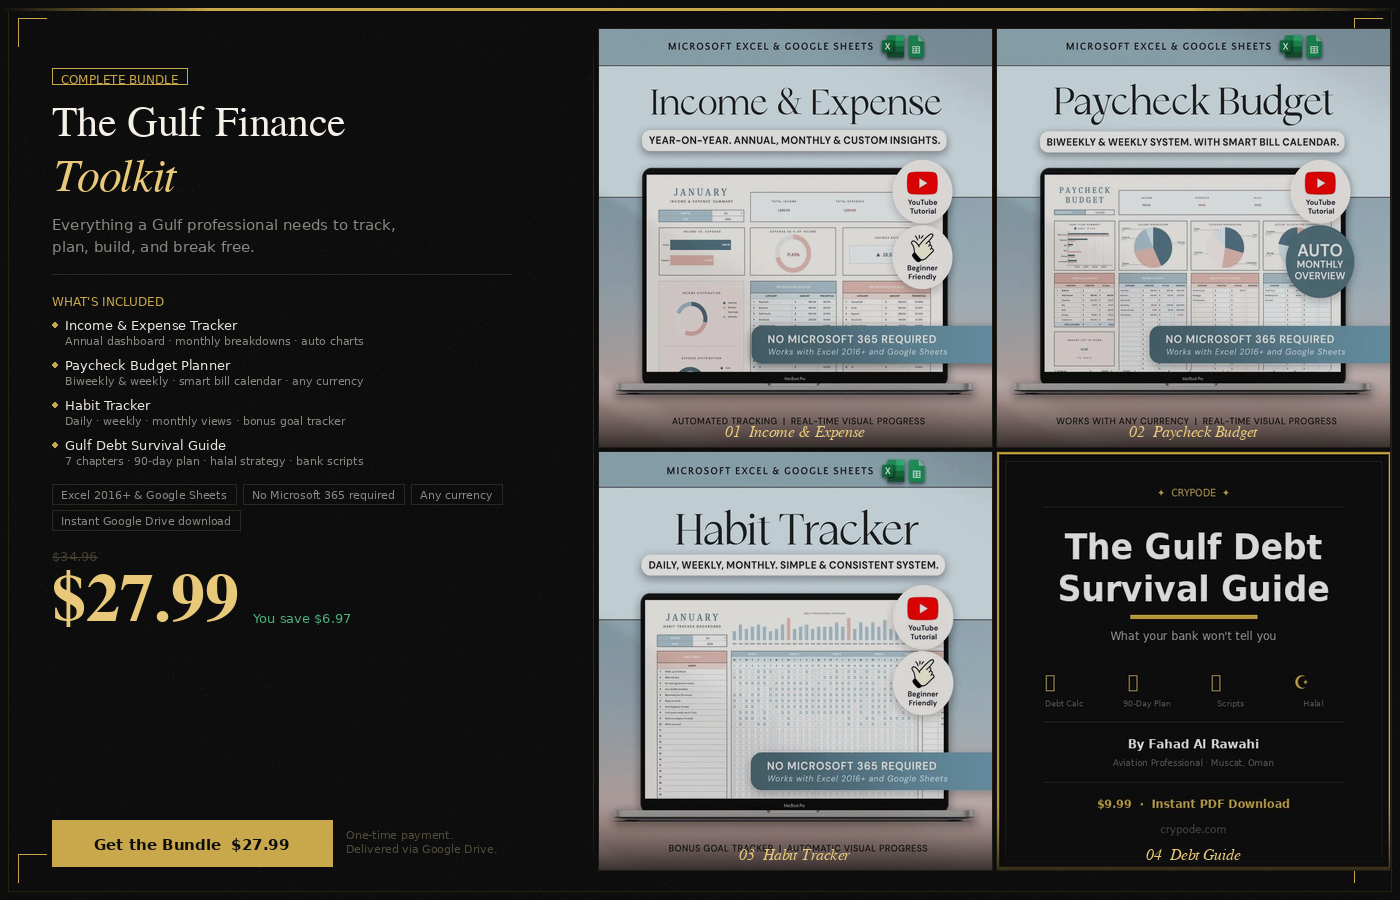
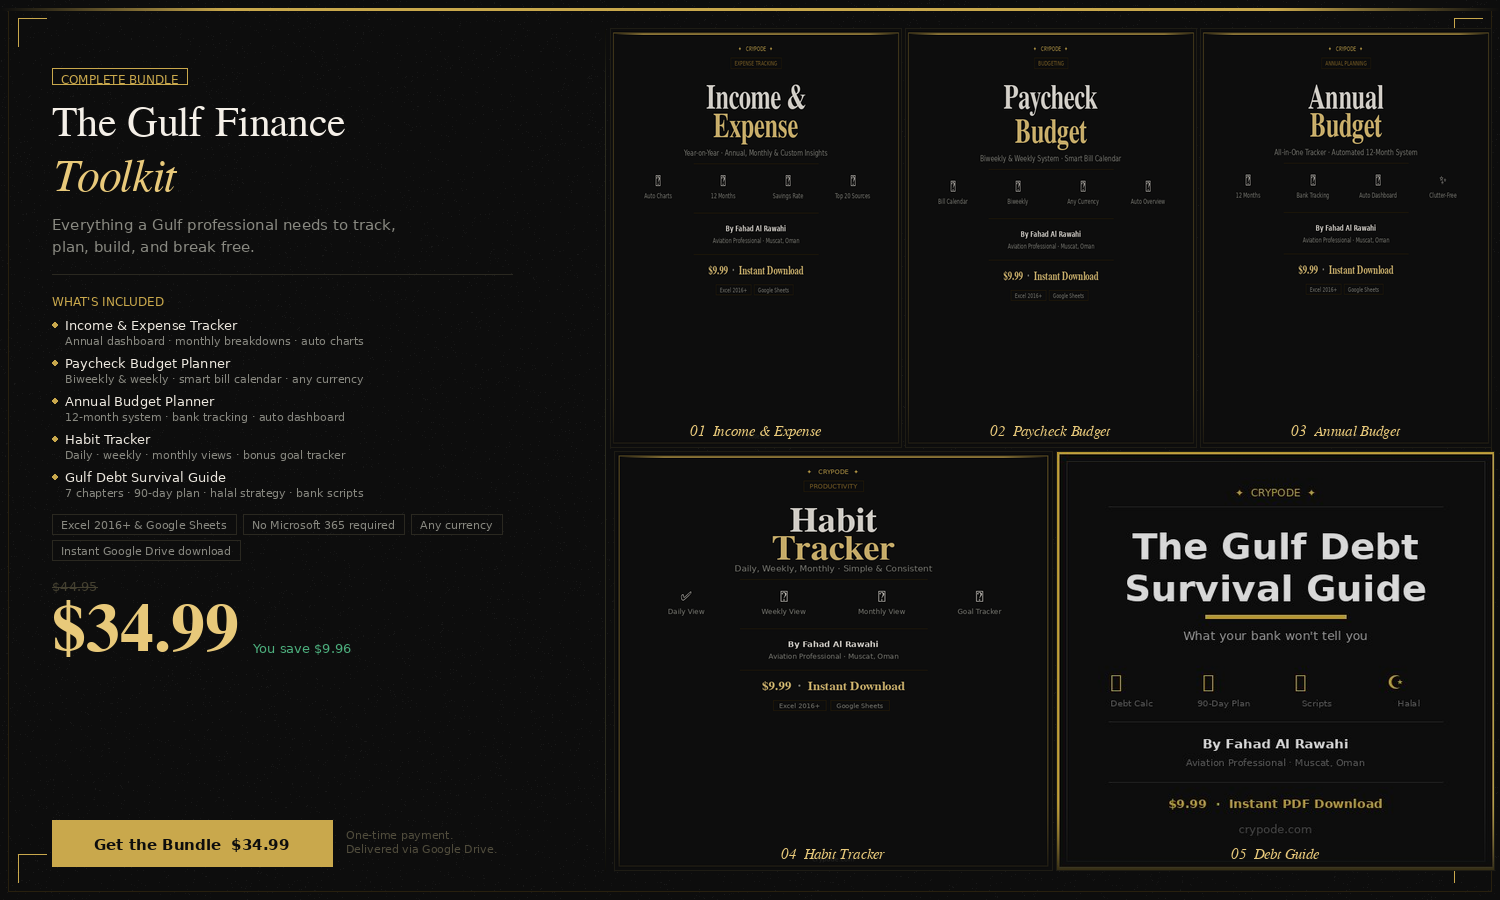
Add files via upload

diff --git a/tools.html b/tools.html
@@ -257,9 +257,9 @@
   /* PRODUCT GRID */
   .tools-grid {
     display: grid;
-    grid-template-columns: repeat(4, 1fr);
+    grid-template-columns: repeat(5, 1fr);
     gap: 2px;
-    max-width: 1300px;
+    max-width: 1500px;
     margin: 0 auto;
     padding: 0 48px 100px;
   }
@@ -277,6 +277,7 @@
   .product-card:nth-child(2) { animation-delay: 0.2s; }
   .product-card:nth-child(3) { animation-delay: 0.3s; }
   .product-card:nth-child(4) { animation-delay: 0.4s; }
+  .product-card:nth-child(5) { animation-delay: 0.5s; }
   .product-card:hover { border-color: rgba(201,168,76,0.3); transform: translateY(-4px); }
 
   .card-image {
@@ -369,6 +370,9 @@
     to   { opacity: 1; transform: translateY(0); }
   }
 
+  @media (max-width: 1400px) {
+    .tools-grid { grid-template-columns: repeat(3, 1fr); }
+  }
   @media (max-width: 1200px) {
     .tools-grid { grid-template-columns: repeat(2, 1fr); }
   }
@@ -425,11 +429,11 @@
 <div class="bundle-banner">
   <div class="bundle-inner">
     <div class="bundle-text">
-      <h3>Complete Finance Bundle — All 4 Products</h3>
-      <p>Income tracker + Paycheck budget + Habit tracker + Gulf Debt Guide. Instant download via Google Drive.</p>
+      <h3>Complete Finance Bundle — All 5 Products</h3>
+      <p>Income tracker + Paycheck budget + Annual budget + Habit tracker + Gulf Debt Guide. Instant download via Google Drive.</p>
     </div>
     <div class="bundle-right">
-      <div class="bundle-price"><s>$34.96</s> $27.99</div>
+      <div class="bundle-price"><s>$44.95</s> $34.99</div>
       <a href="https://www.paypal.com/ncp/payment/UWE4UVBSWK7TQ" target="_blank" class="btn-bundle">Get Bundle →</a>
     </div>
   </div>
@@ -500,7 +504,38 @@
     </div>
   </div>
 
-  <!-- Card 3: Habit Tracker -->
+  <!-- Card 3: Annual Budget -->
+  <div class="product-card" data-cat="budgeting">
+    <img class="card-image" src="AnnualBudget-Purple.png" alt="Annual Budget">
+    <div class="card-body">
+      <div class="card-category">Annual Planning</div>
+      <h2 class="card-title">Annual Budget Planner</h2>
+      <div class="compat-row">
+        <div class="compat-badge">
+          <svg viewBox="0 0 24 24" fill="#1D6F42"><rect x="3" y="3" width="18" height="18" rx="2"/><path d="M8 12h8M8 8h8M8 16h5" stroke="#fff" stroke-width="1.5"/></svg>
+          Excel 2016+
+        </div>
+        <div class="compat-dot"></div>
+        <div class="compat-badge">
+          <svg viewBox="0 0 24 24" fill="#0F9D58"><rect x="3" y="3" width="18" height="18" rx="2"/><path d="M8 12h8M8 8h8M8 16h5" stroke="#fff" stroke-width="1.5"/></svg>
+          Google Sheets
+        </div>
+      </div>
+      <p class="card-desc">All-in-one automated 12-month tracker with annual dashboard, bank account tracking, income &amp; expense breakdowns, and debt payment summaries. Clutter-free design.</p>
+      <div class="card-tags">
+        <span class="tag">12 Months</span>
+        <span class="tag">Bank Tracking</span>
+        <span class="tag">Auto Dashboard</span>
+        <span class="tag">Clutter-Free</span>
+      </div>
+      <div class="card-footer">
+        <div class="card-price">$9.99 <span>Instant Download</span></div>
+        <a href="https://www.paypal.com/ncp/payment/HTMQ6JVC59B4Q" target="_blank" class="btn-buy">Buy Now →</a>
+      </div>
+    </div>
+  </div>
+
+  <!-- Card 4: Habit Tracker -->
   <div class="product-card" data-cat="productivity">
     <img class="card-image" src="habit.png" alt="Habit Tracker">
     <div class="card-body">
@@ -531,7 +566,7 @@
     </div>
   </div>
 
-  <!-- Card 4: Gulf Debt Survival Guide -->
+  <!-- Card 5: Gulf Debt Survival Guide -->
   <div class="product-card" data-cat="guides">
     <img class="card-image" src="crypode_product_cover_750x750.png" alt="The Gulf Debt Survival Guide">
     <div class="card-body">
